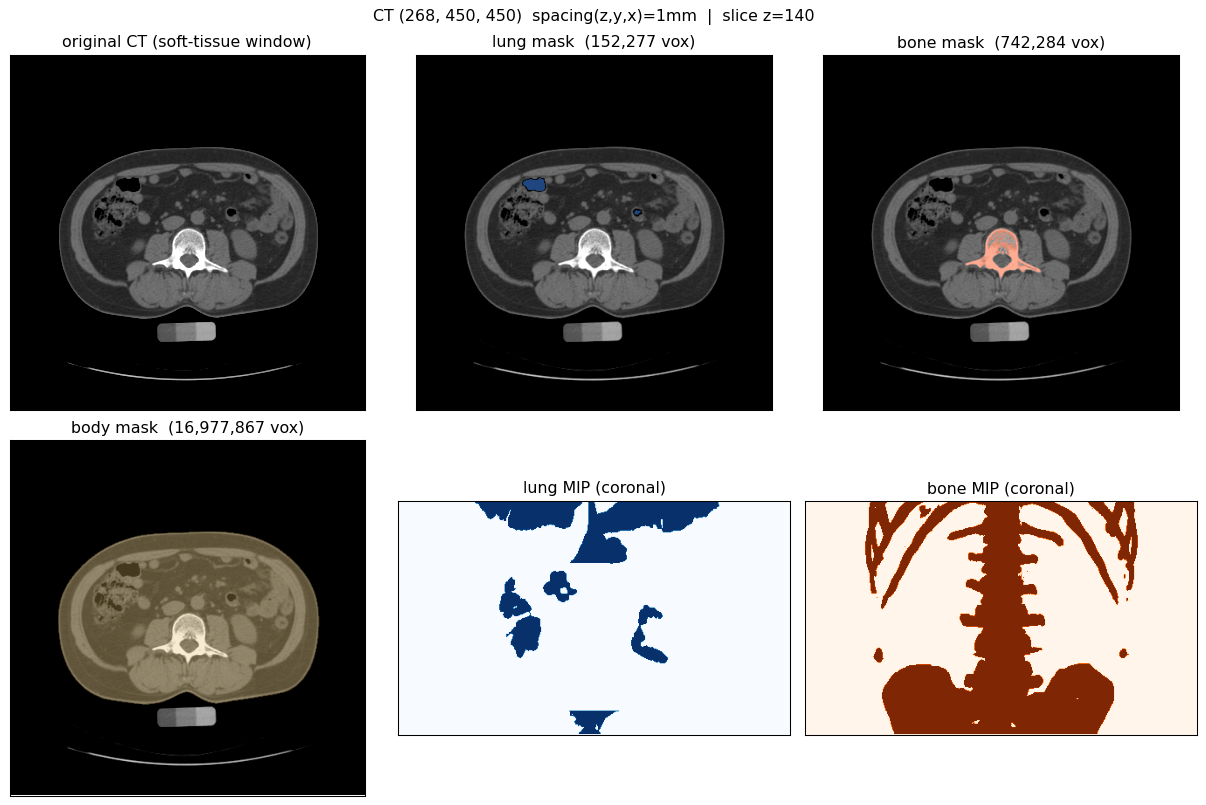
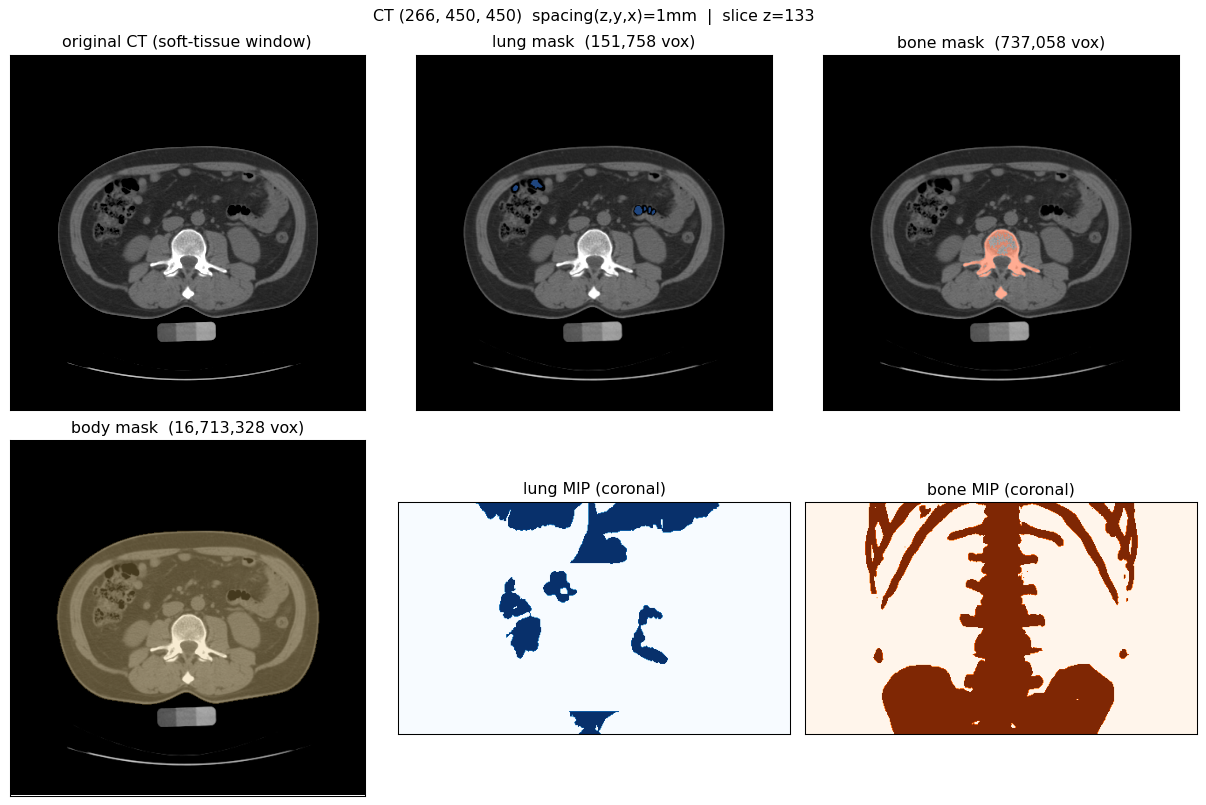
fix: 修 quantify_report.png 中文方框，字体设置抽成单一来源
- 新增 plot_font.py：全项目唯一的 matplotlib 中文字体设置。候选表按
  font_manager 实际可用性筛选，一个都没命中时主动 warn，防止再出现
  "静默出方框"
- demo_05_quantify.py 原来硬写 ["Microsoft YaHei", "SimHei", ...]，
  本机 Windows 看不出问题，一上 Linux 服务器整张图中文字变方框
  （matplotlib 缺字形只刷 warning，不抛异常）
- demo_04_registration.py 的 _use_cjk_font 改为委托 plot_font（函数名
  保留，GPU 版仍在 import 它）
- 量化报告第三子图 y 轴：内部键名 bone/lung/body → 中文标签，与左侧
  两张子图统一
- 去掉两处过期的"（纯 CPU）"输出文案
- docs/segmentation_preview.png 换成网格规则修复后的版本
  （268 层 → 266 层，体表 16,977,867 → 16,713,328 vox，与 README 正文自洽）
- README 坑清单 21 → 22 条（新增"字体名写错不报错只出方框"）

diff --git a/docs/index.html b/docs/index.html
@@ -59,7 +59,7 @@
   <div class="links">
     <a class="btn" href="demo_recon.html">打开交互式三维重建 →</a>
     <a class="btn ghost" href="https://github.com/xizhedong/MedRecon3D">GitHub 仓库</a>
-    <a class="btn ghost" href="https://github.com/xizhedong/MedRecon3D#readme">README（含 21 条踩坑记录）</a>
+    <a class="btn ghost" href="https://github.com/xizhedong/MedRecon3D#readme">README（含 22 条踩坑记录）</a>
   </div>
 
   <h2>关键数字</h2>

diff --git a/plot_font.py b/plot_font.py
@@ -1,0 +1,81 @@
+#!/usr/bin/env python
+# -*- coding: utf-8 -*-
+"""matplotlib 中文字体：**全项目唯一的一份设置**。
+
+为什么单独抽一个模块
+--------------------
+原来 `demo_04_registration.py` 里写了一份跨平台探测，`demo_05_quantify.py`
+里却硬写 `["Microsoft YaHei", "SimHei", "PingFang SC", ...]`。本机（Windows）
+跑没问题，一上 Linux 服务器就全变成空心方框 —— 因为那个候选表里的字体
+一个都不存在，而 **matplotlib 找不到字体不会报错，只会静默退化成方框**。
+
+实测 AutoDL 的 Ubuntu 22.04 镜像 `fc-list | grep -i cjk` 返回 0 条。
+`out/quantify_report.png` 就是这么出问题的。
+
+所以凡是画中文图的地方，一律 `from plot_font import set_cjk_font`，
+不要再各自写候选表。
+
+Linux 上装字体的命令（约 5 MB）：
+    apt-get install -y fonts-wqy-microhei
+装完记得清 matplotlib 的字体缓存，否则新字体不会被扫描到：
+    rm -rf ~/.cache/matplotlib
+"""
+
+from __future__ import annotations
+
+# 按优先级排列。Windows / macOS / Linux 各自的常见中文字体都在里面。
+CJK_CANDIDATES = [
+    "Microsoft YaHei",      # Windows
+    "SimHei",               # Windows
+    "PingFang SC",          # macOS
+    "Hiragino Sans GB",     # macOS
+    "Noto Sans CJK SC",     # Linux (fonts-noto-cjk)
+    "Source Han Sans SC",   # Linux (思源黑体)
+    "WenQuanYi Micro Hei",  # Linux (fonts-wqy-microhei)
+    "WenQuanYi Zen Hei",    # Linux (fonts-wqy-zenhei)
+    "Droid Sans Fallback",  # 部分 Android / 精简镜像
+    "AR PL UMing CN",       # 部分 Debian 镜像
+]
+# 兜底：matplotlib 自带，拉丁字母和数字一定正常（中文会是方框）
+_FALLBACK = "DejaVu Sans"
+
+
+def list_available_cjk() -> list:
+    """当前环境里真正装有的中文字体（按候选表优先级排序）。"""
+    from matplotlib import font_manager
+    available = {f.name for f in font_manager.fontManager.ttflist}
+    return [c for c in CJK_CANDIDATES if c in available]
+
+
+def set_cjk_font(verbose: bool = False) -> str:
+    """把 matplotlib 默认字体设成当前环境里可用的中文字体，返回生效的字体名。
+
+    `axes.unicode_minus` 必须一起关掉：中文字体里的 U+2212 常常缺字形，
+    负号会变成方框 —— 这是另一个高频坑。
+    """
+    import matplotlib
+    matplotlib.use("Agg")
+    from matplotlib import rcParams
+
+    ok = list_available_cjk()
+    rcParams["font.sans-serif"] = ok + [_FALLBACK]
+    rcParams["axes.unicode_minus"] = False
+
+    if not ok:
+        import warnings
+        warnings.warn(
+            "未找到任何中文字体，图里的中文会渲染成方框。"
+            "Linux 上执行：apt-get install -y fonts-wqy-microhei && rm -rf ~/.cache/matplotlib",
+            RuntimeWarning,
+            stacklevel=2,
+        )
+        return _FALLBACK
+
+    if verbose:
+        print(f"      中文字体：{ok[0]}" + (f"（备选 {', '.join(ok[1:])}）" if len(ok) > 1 else ""))
+    return ok[0]
+
+
+if __name__ == "__main__":
+    print("可用中文字体：", list_available_cjk() or "（无）")
+    print("生效字体：", set_cjk_font(verbose=True))

diff --git a/demo_04_registration.py b/demo_04_registration.py
@@ -441,37 +441,13 @@ def experiment_b(fixed: sitk.Image, out_png: Path) -> dict:
 
 
 def _use_cjk_font():
-    """matplotlib 默认字体没有中文字形，不设的话图里中文全是方框。
+    """保留这个函数名（GPU 版会 import 它），实际实现已抽到 `plot_font.py`。
 
-    这是一份**跨平台**候选表，不是随便罗列：Windows 有微软雅黑、macOS 有苹方、
-    Linux 服务器上什么都没有 —— 实测 AutoDL 的 Ubuntu 22.04 镜像里
-    `fc-list | grep -i cjk` 返回 0 条，图里所有中文都渲染成空心方框，
-    还刷了几百行 `Glyph xxx missing from current font` 警告。
-
-    Linux 上装一个（约 5 MB）即可：
-        apt-get install -y fonts-wqy-microhei
-
-    字体名写错不会报错、只会静默退化成方框，所以最后一档留 `DejaVu Sans`
-    （matplotlib 自带，至少拉丁字母和数字是好的），同时把候选按可用性筛选。
+    抽出去的原因：`demo_05_quantify.py` 里当时另写了一份硬编码候选表，
+    在 Linux 服务器上整个图的中文都渲染成了方框。字体设置只该有一份。
     """
-    import matplotlib
-    matplotlib.use("Agg")
-    from matplotlib import font_manager, rcParams
-
-    candidates = ["Microsoft YaHei", "SimHei", "PingFang SC", "Hiragino Sans GB",
-                  "Noto Sans CJK SC", "Source Han Sans SC", "WenQuanYi Micro Hei",
-                  "WenQuanYi Zen Hei", "Droid Sans Fallback",
-                  "AR PL UMing CN", "DejaVu Sans"]
-    available = {f.name for f in font_manager.fontManager.ttflist}
-    ordered = [c for c in candidates if c in available] or ["DejaVu Sans"]
-    rcParams["font.sans-serif"] = ordered
-    rcParams["axes.unicode_minus"] = False
-    # 一个中文字体都没找到时明确提示，避免"静默出方框"
-    if not any(c in available for c in candidates[:-1]):
-        import warnings
-        warnings.warn("未找到任何中文字体，图中的中文会显示为方框；"
-                      "Linux 上可执行 apt-get install -y fonts-wqy-microhei")
-    return ordered[0]
+    from plot_font import set_cjk_font
+    return set_cjk_font()
 
 
 def render_stages(fixed, moving, aligned, out_png: Path, z: int | None = None):
@@ -541,7 +517,7 @@ def main(argv=None) -> int:
     out_json.write_text(json.dumps(result, ensure_ascii=False, indent=2),
                         encoding="utf-8")
     print(f"      -> {out_json.name}")
-    print(f"\n总耗时 {total}s（纯 CPU）")
+    print(f"\n总耗时 {total}s（SimpleITK / CPU 参考实现）")
     return 0
 
 

diff --git a/demo_05_quantify.py b/demo_05_quantify.py
@@ -23,6 +23,7 @@ import numpy as np
 
 from demo_01_recon import (DICOM_DIR, OUT_DIR, load_dicom_series,
                            resample_isotropic, segment, STRUCT_STYLE)
+from plot_font import set_cjk_font
 
 
 # ------------------------------------------------------------ 测量
@@ -87,10 +88,9 @@ def measure_structure(mask: np.ndarray, spacing_zyx, hu: np.ndarray,
 def render_report(result: dict, out_png: Path):
     import matplotlib
     matplotlib.use("Agg")
-    from matplotlib import rcParams
-    rcParams["font.sans-serif"] = ["Microsoft YaHei", "SimHei", "PingFang SC",
-                                   "Source Han Sans SC", "DejaVu Sans"]
-    rcParams["axes.unicode_minus"] = False
+    # 中文字体走共享模块 —— 这里以前硬写了 "Microsoft YaHei" 一串，
+    # 在 Linux 服务器上全部落到方框（详见 plot_font.py 头部）
+    set_cjk_font()
     import matplotlib.pyplot as plt
 
     names, vols, ferets = [], [], []
@@ -118,9 +118,12 @@ def render_report(result: dict, out_png: Path):
     for k, v in result["structures"].items():
         hu = v.get("hu") or {}
         if hu:
+            # y 轴用面向阅读的中文 label，不用内部键名 —— 否则这张子图的
+            # 轴标签是 bone/lung/body，跟左边两张图的中文标签对不上
+            lab = v.get("label", k)
             ax.plot([hu["p05"], hu["median"], hu["p95"]],
-                    [k, k, k], marker="o", linewidth=1.2,
-                    label=f"{v.get('label', k)} (median {hu['median']:.0f})")
+                    [lab, lab, lab], marker="o", linewidth=1.2,
+                    label=f"{lab} (median {hu['median']:.0f})")
     ax.set_xlabel("HU")
     ax.set_title("HU 分布（5% / 中位 / 95%）", fontsize=11)
     ax.legend(fontsize=8, loc="best")
@@ -242,7 +245,7 @@ def main(argv=None) -> int:
     out_json.write_text(json.dumps(result, ensure_ascii=False, indent=2),
                         encoding="utf-8")
     print(f"      -> {out_json.name}")
-    print(f"\n总耗时 {total}s（纯 CPU）")
+    print(f"\n总耗时 {total}s（本模块无 GPU 分支，量测本身不是瓶颈）")
     return 0
 
 

diff --git a/README.md b/README.md
@@ -285,6 +285,7 @@ GET  /api/v1/jobs/{id}/result           量化结果 JSON
 ```
 MedRecon3D/
 ├── volume_grid.py             # 重采样输出网格规则（CPU/GPU 唯一来源）
+├── plot_font.py               # matplotlib 中文字体（全项目唯一来源）
 ├── demo_01_recon.py           # M1–M3 主链路（CPU）
 ├── demo_01_recon_gpu.py       # M1–M3 主链路（GPU）
 ├── demo_04_registration.py    # M4 多级配准（CPU，双实验 + TRE）
@@ -502,6 +503,17 @@ docker run --rm -p 8000:8000 -v medrecon_data:/data medrecon3d:0.1.0
 
 21. **`pkill -f fetch_wheels` 会杀掉自己**：同一行命令里含有那个字面量，
     进程自己也匹配上了，任务刚开始就自杀。→ 用字符类技巧 `pkill -f "fetch_[w]heels"`。
+
+22. **matplotlib 找不到中文字体不报错，只是静默出方框**：`rcParams["font.sans-serif"]`
+    里写的字体名在本机不存在时，matplotlib 不会抛异常，而是把每个汉字渲染成空心
+    方框（只刷 `Glyph xxx missing from current font` 的警告）。同一个项目里字体
+    设置**写了两份** —— `demo_04_registration.py` 那份做了可用性筛选，`demo_05_quantify.py`
+    那份是硬编码的 `["Microsoft YaHei", ...]`。本机 Windows 跑没事，一上 Linux 服务器
+    `quantify_report.png` 整张图的中文全变方框。→ 抽成 `plot_font.py` 单一来源，
+    候选表按 `font_manager` 实际可用性筛选，一个都没命中时**主动 warn**。
+    （Linux 上装字体：`apt-get install -y fonts-wqy-microhei && rm -rf ~/.cache/matplotlib`）
+
+    同类的还有 `axes.unicode_minus`：中文字体里 U+2212 常常缺字形，不关掉负号也是方框。
 
 ---
 
